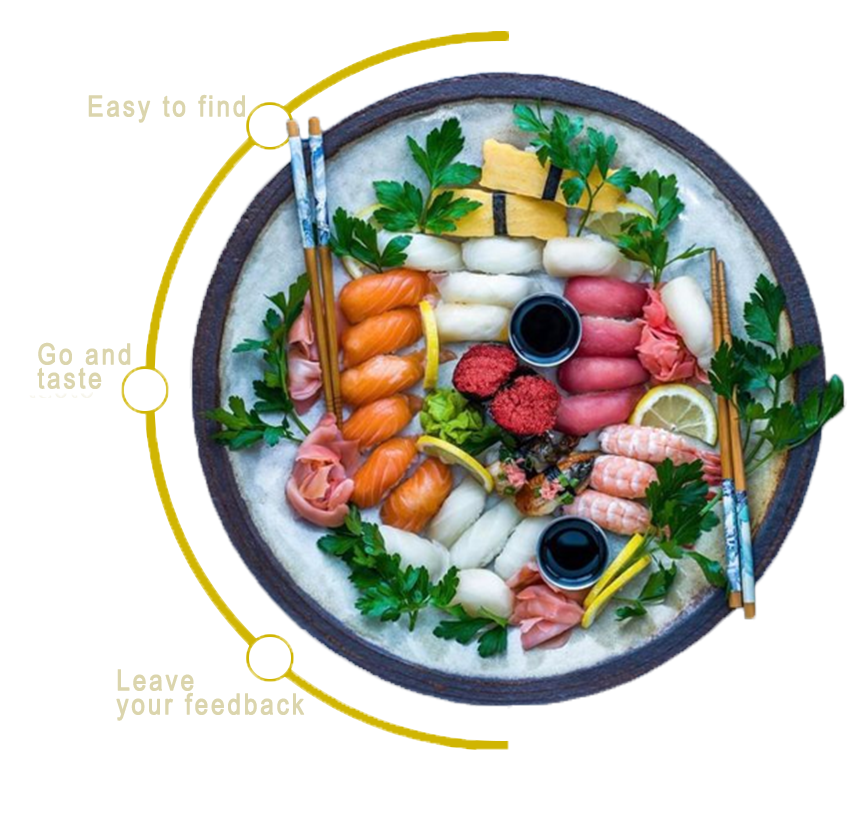
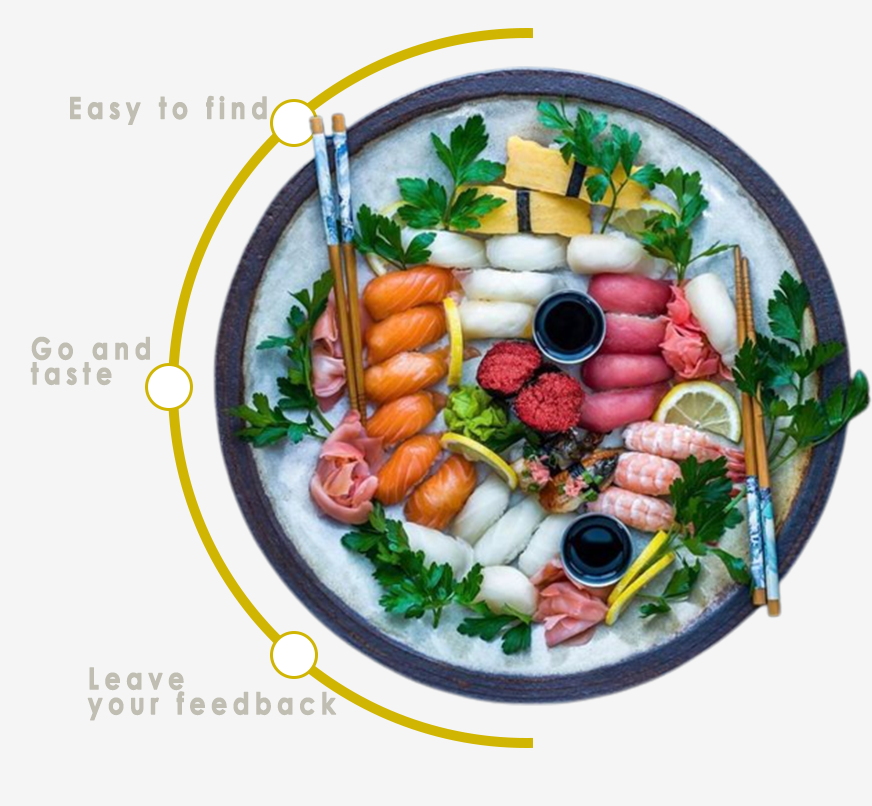
Adding more and more css omg when this end

diff --git a/src/components/Home/Home.tsx b/src/components/Home/Home.tsx
@@ -1,5 +1,3 @@
-import React from 'react'
-
 /* React Icons */
 import {CiFacebook} from "react-icons/ci" // Facebook
 import {PiInstagramLogoLight, PiTiktokLogoLight} from "react-icons/pi" // Instagram n Tiktok
@@ -7,18 +5,19 @@ import {PiInstagramLogoLight, PiTiktokLogoLight} from "react-icons/pi" // Instag
 /* Images png */
 import homeImage from "../../assets/steps icon.png"
 
+/* CSS */
+import s from './Home.module.css';
+
 export default function Home() {
   return (
-    <div>
-      <div>
-        <h4>Taste of your favorite food</h4>
-        <h2>The best restaurants around you, and for you ;)</h2>
-        <span>
+    <div className={s.div_global}>
+      <div className={s.div_text}>
+        <h4>Taste of your favorite food !</h4>
+        <h2>Top-notch eateries, just for you!</h2>
+        <p>
           Lorem ipsum dolor sit amet, consectetur adipiscing elit, 
-          sed do eiusmod tempor incididunt ut labore et dolore magna 
-          aliqua. Ut enim ad minim veniam, quis nostrud exercitation 
-          ullamco
-        </span>
+          sed do eiusmod tempor incididunt ut labore et dolore magna.
+        </p>
         <button>Give your opinion</button>
 
         <div>

diff --git a/src/components/Home/Home.module.css b/src/components/Home/Home.module.css
@@ -1,0 +1,47 @@
+.div_global{
+    display: grid;
+    grid-template-columns: 55% 45%;
+    padding: 4em 5em 5em 5em;
+}
+
+.div_global img{
+    width: 90%;
+}
+
+.div_text h4 {
+    font-family: 'Petit Formal Script', cursive;    
+    color: #D4B703;
+
+    font-size: 1.5em;
+
+    margin-bottom: 0px;
+}
+
+.div_text h2 {
+    color: rgba(0, 0, 0, 0.669);
+    font-size: 3.5em;
+
+    font-weight: 500;
+
+    margin: 0px 0px 1.3em 0px;
+}
+
+.div_text p {
+    width: 60%;
+
+    color: rgba(0, 0, 0, 0.61);
+    font-size: 0.8em;
+}
+
+.div_text button{
+    border: none;
+    border-radius: 10px;
+
+    background-color: #D4B703;
+    color: white;
+
+    font-weight: 300;
+
+    padding: 1em;
+    margin: 1.2em 0 2em 0.4em;
+}

diff --git a/index.html b/index.html
@@ -6,7 +6,7 @@
     <meta name="viewport" content="width=device-width, initial-scale=1.0" />
     <link rel="preconnect" href="https://fonts.googleapis.com">
     <link rel="preconnect" href="https://fonts.gstatic.com" crossorigin>
-    <link href="https://fonts.googleapis.com/css2?family=Poppins:wght@100;200;300;400;500;700;900&display=swap" rel="stylesheet">
+    <link href="https://fonts.googleapis.com/css2?family=Petit+Formal+Script&family=Poppins:wght@100;200;300;400;500;700;900&family=Sofia&display=swap" rel="stylesheet">
     <title>Feedback Post</title>
   </head>
   <body>

diff --git a/src/index.css b/src/index.css
@@ -44,6 +44,7 @@ h1 {
   margin: 0.67em 0;
 }
 
+
 /* Grouping content
    ========================================================================== */
 
